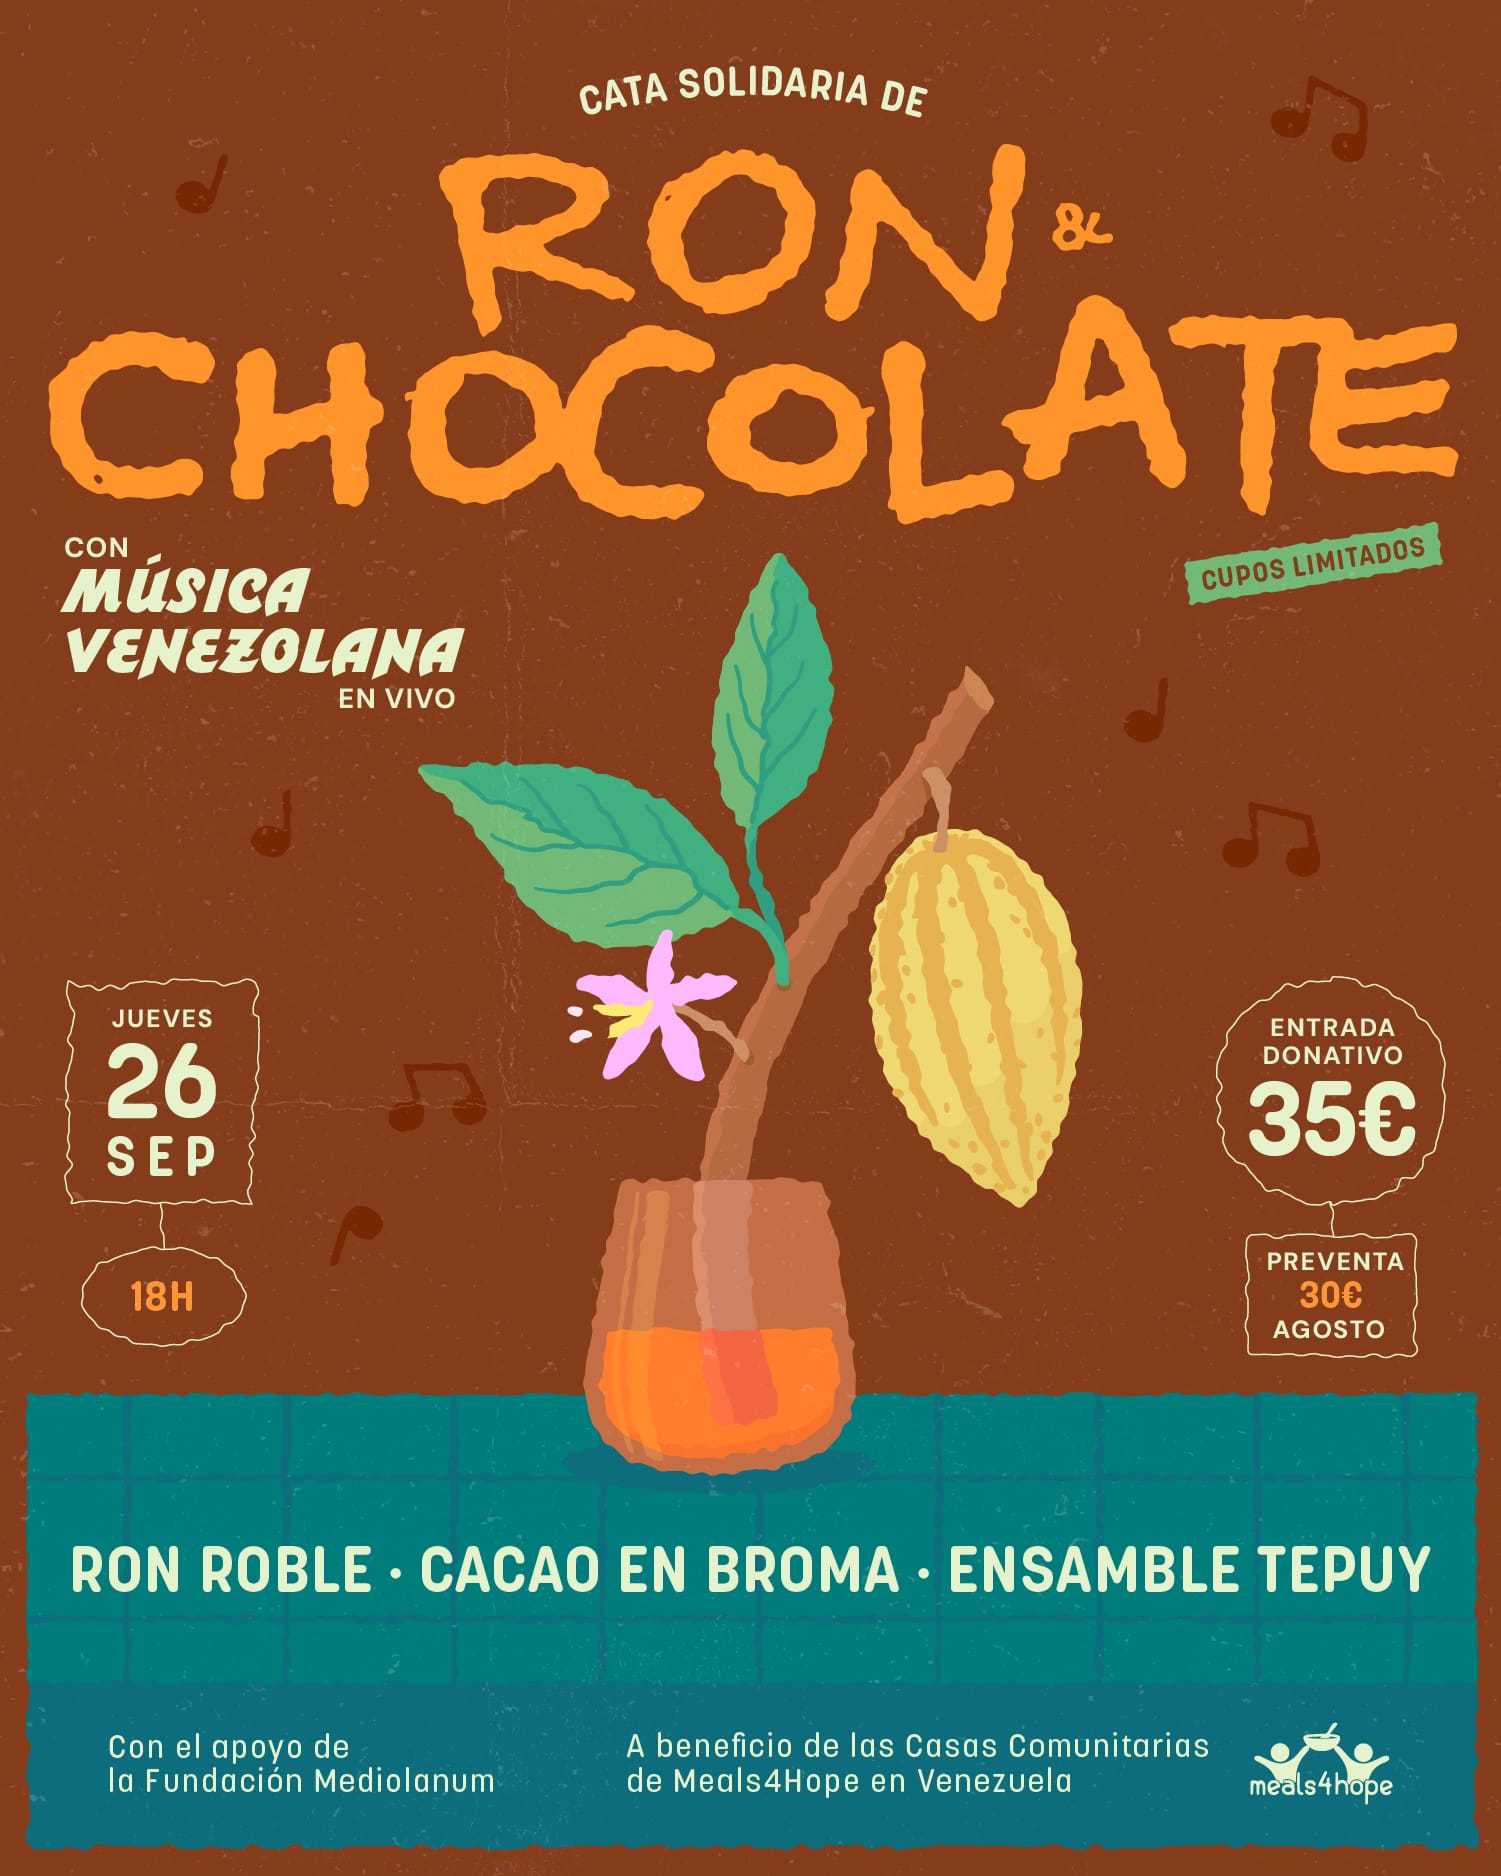
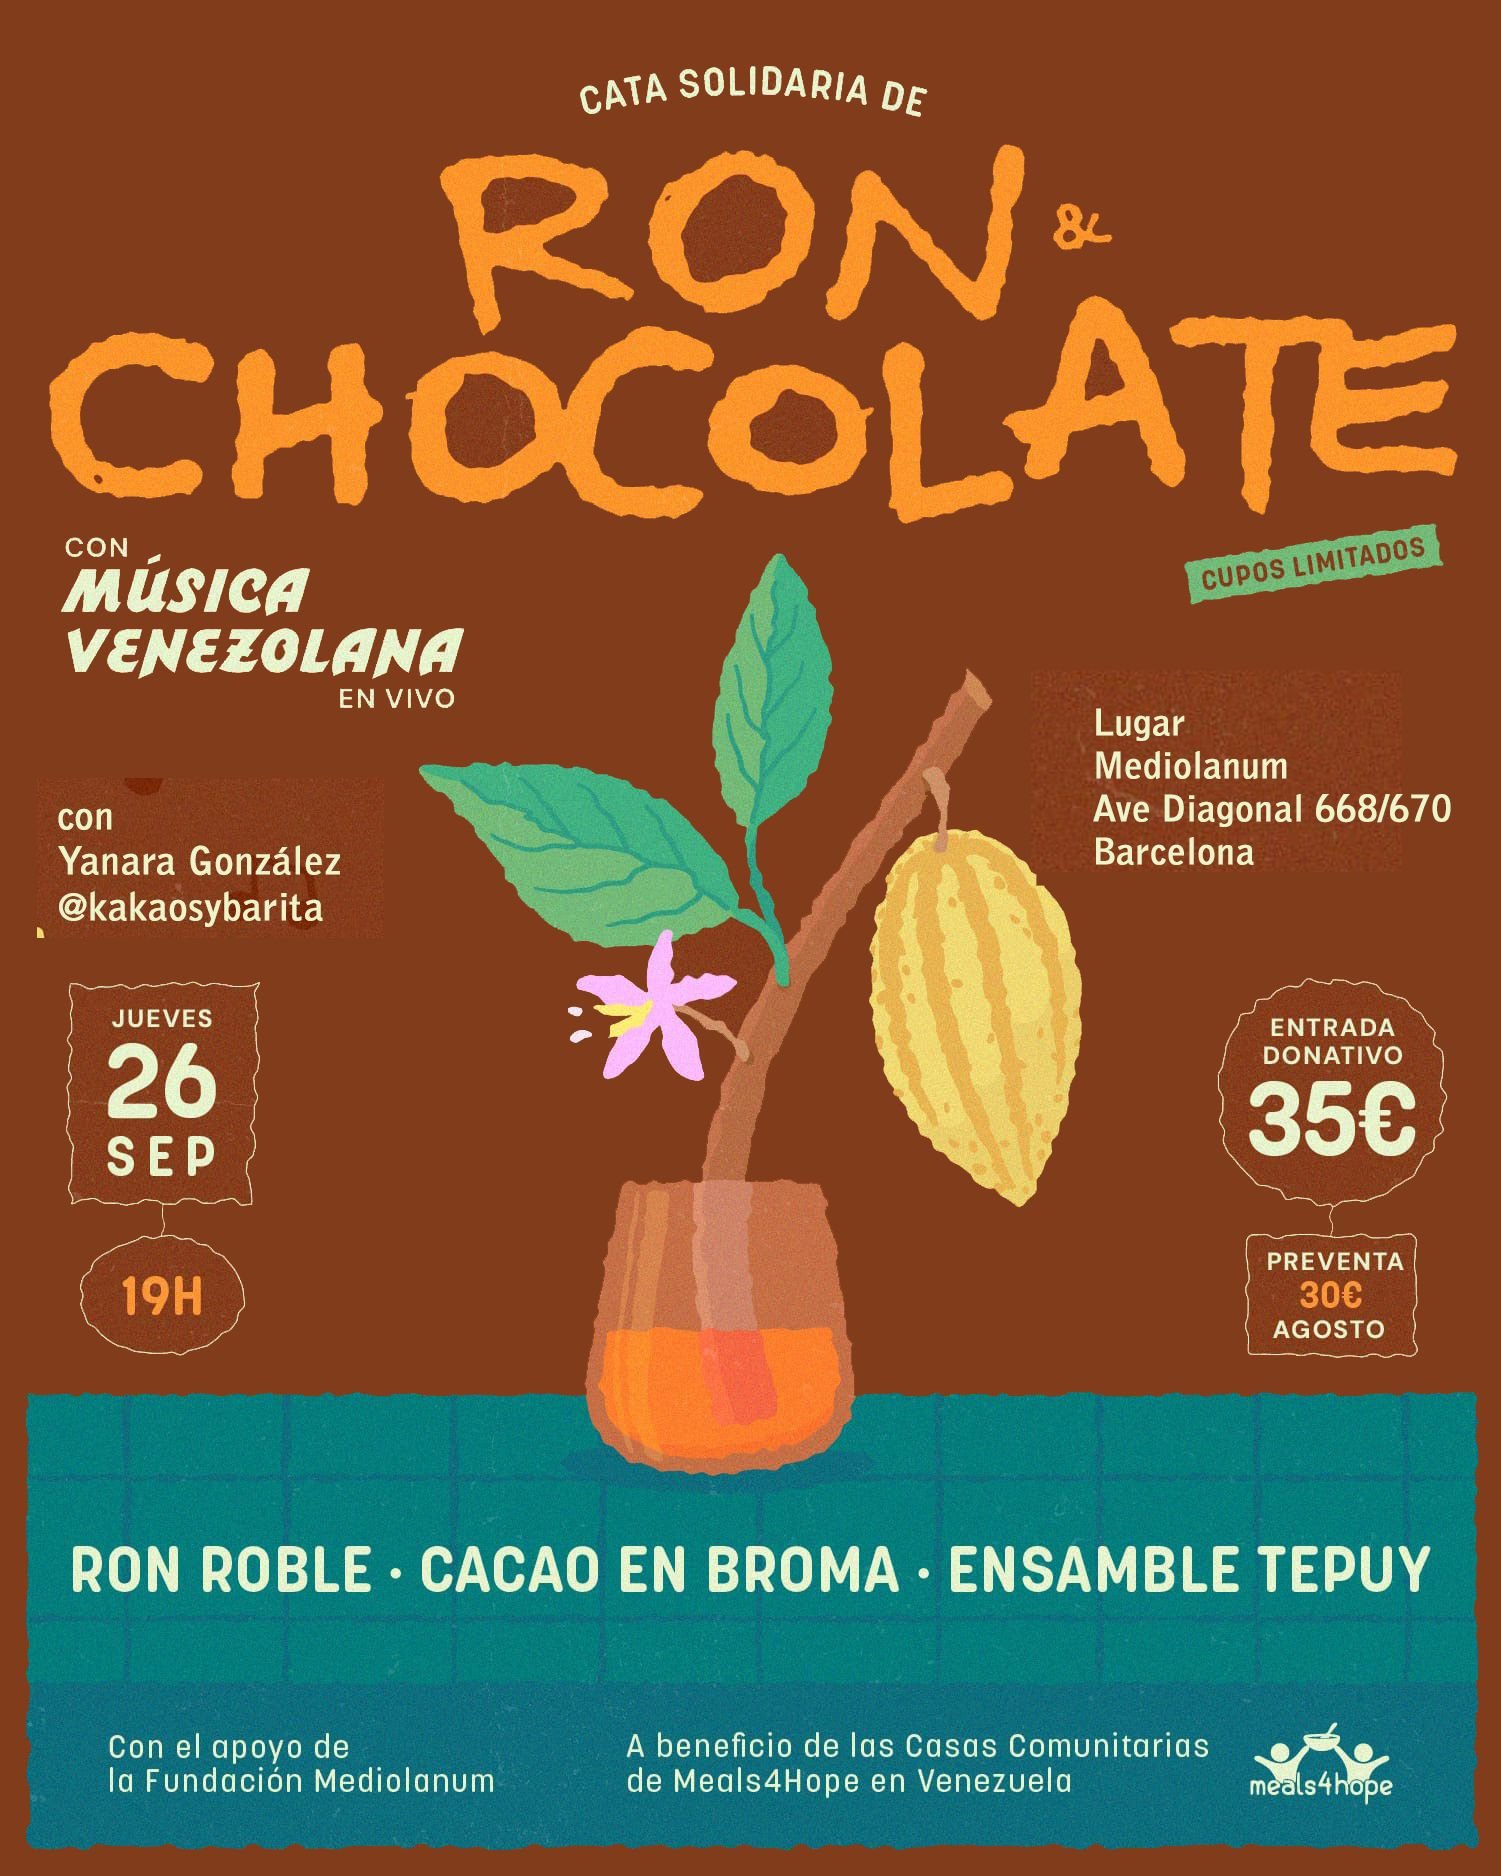
new changes

diff --git a/index.html b/index.html
@@ -84,9 +84,9 @@
                             <p>Esta Cata Solidaria será una velada inolvidable donde nos sumergiremos en los sabores exquisitos, la historia y la riqueza cultural del ron y el chocolate, disfrutaremos de la música de cuerdas del Ensamble Tepuy y nos llenaremos el corazón por la oportunidad de dar a quienes lo necesitan.</p>
                             <p>La situación de Venezuela hoy se ha deteriorado aceleradamente. Combatir la desnutrición y llevar alimento es más importante que nunca. La Cata Solidaria se realizará a beneficio del proyecto Casas Comunitarias de la Fundación Meals4Hope. Proyecto que atiende la salud, nutrición y alimentación de más de 950 niños y niñas vulnerables de zonas rurales de Venezuela.</p>
                             <p>Fecha: <b>lunes 26 de septiembre</b> 
-                                Hora: <b>18.00 horas</b>
+                                Hora: <b>19.00 horas</b>
                                 Lugar: <b>Mediolanum, Av Diagonal 668-670, Barcelona</b></p>
-                            <p>Empezaremos con un brindis y pica-pica seguido por una presentación del proyecto que apoyamos. Luego, fusionando sabores y ritmos y con la guía de expertos, aprenderemos a apreciar el Ron y el Chocolate de una manera completamente nueva, en una tarde ambientada por el Ensamble Tepuy.</p>                        
+                            <p>Empezaremos con un brindis y pica-pica seguido por una presentación del proyecto que apoyamos. Luego, fusionando sabores y ritmos y con la guía de los expertos Yanara González (kakaosybarita) de y Carlos Belloso (Ron Roble) aprenderemos a apreciar el Ron y el Chocolate de una manera completamente nueva, en una tarde ambientada por el Ensamble Tepuy.</p>
                             <p><b>El precio de la entrada -donativo- es de 35€.</b> Con este donativo disfrutas de una tarde inolvidable y participas en un sorteo que se realizará el día del evento. <b>Tenemos un precio especial de 30€</b> para los primeros en comprar (hasta el 7 de septiembre)</p>
                             <p>Una vez que completes la donación, recibirás (en unos días), la entrada o entradas, en el correo electrónico que nos hayas facilitado.</p>
                             <p>Tenemos también <b>fila 0</b> para quienes quieran contribuir con nuestras Casas Comunitarias pero no puedan asistir a la Cata Solidaria el día 26. Pueden aportar la cantidad que elijan en <a href="https://donations.meals4hope.org/">nuestra pagina de donaciones</a>.</p>
